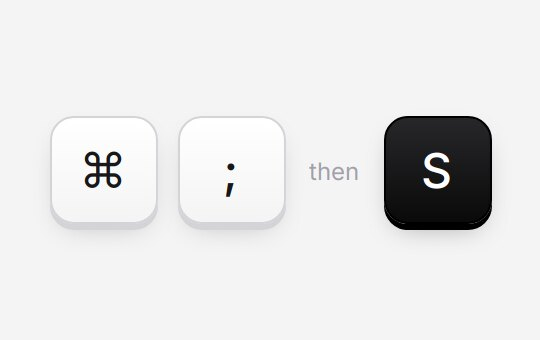
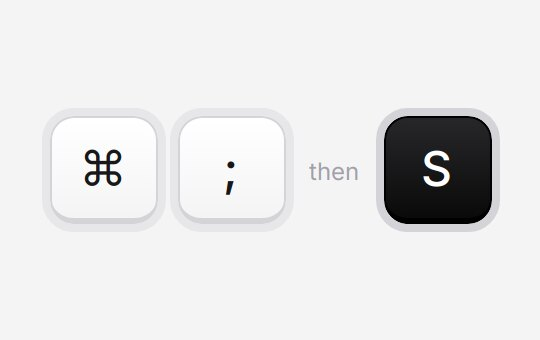
Stroke 3 stills: bezel borders instead of shadows
Every card, logo tile and keycap in the email and launch-page pictures
loses its shadow and gets a hairline border inside a soft gray rim. The
image URLs carry ?v=2 so mail clients don't show cached copies.

diff --git a/src/routes/stroke-3.tsx b/src/routes/stroke-3.tsx
@@ -143,7 +143,7 @@ function Picture({ t }: { t: PicTile }) {
         <span className="font-semibold text-[#0a0a0a]">{t.title}</span> {t.text}
       </p>
       <img
-        src={`${IMG}/${t.img}.jpg`}
+        src={`${IMG}/${t.img}.jpg?v=2`}
         alt={t.alt}
         width={540}
         height={340}
@@ -233,7 +233,7 @@ function Stroke3Page() {
               access level you pick: read only, read and write, schema changes, or everything.
             </p>
             <img
-              src={`${IMG}/hero.jpg`}
+              src={`${IMG}/hero.jpg?v=2`}
               alt="Stroke's AI chat in a tab: it created two tables and inserted 45 rows"
               width={1104}
               height={660}

diff --git a/src/lib/mail/templates/stroke-3.tsx b/src/lib/mail/templates/stroke-3.tsx
@@ -99,7 +99,7 @@ function Tile({
           <tr>
             <td>
               <Img
-                src={`${IMG}/${img}.jpg`}
+                src={`${IMG}/${img}.jpg?v=2`}
                 alt={alt}
                 width="270"
                 height={PIC_H}
@@ -266,7 +266,7 @@ export function Stroke3Email() {
                     stays inside the access level you pick.
                   </Text>
                   <Img
-                    src={`${IMG}/hero.jpg`}
+                    src={`${IMG}/hero.jpg?v=2`}
                     alt="Stroke's AI chat in a tab: it created two tables and inserted 45 rows"
                     width="552"
                     style={{
